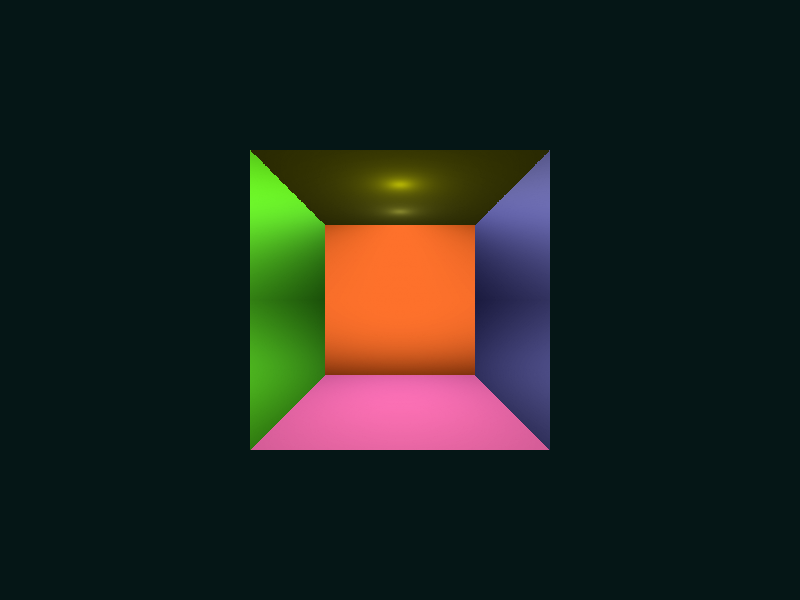
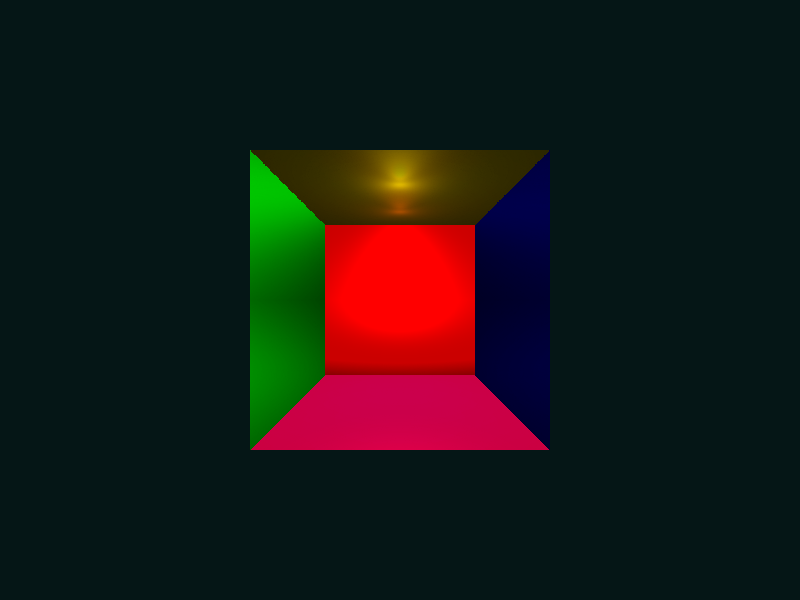
Refactor Luz para que tenga la intensidad como un vector en RGB [0 a 1]

Changed region(s): [[0.3125, 0.24, 0.6875, 0.75]]

diff --git a/headers/escena.h b/headers/escena.h
@@ -49,14 +49,12 @@ Escena_RR::Escena_RR()
 
     // La suma de las intensidades de las luces no debería superar 1.0f
     Luz luz1(
-        0.5f,                     // Intensidad de la luz
-        Vector(7, 4.5, 0),        // Posición de la luz
-        ColorRGB(255, 255, 255)); // Color de la luz
+        Vector(7, 4.5, 0),      // Posición de la luz
+        Vector(0.7, 0.2, 0.2)); // Intensidad de la luz en RGB
     luces.push_back(luz1);
     Luz luz2(
-        0.8f,
         Vector(3, 4.5, 0),
-        ColorRGB(255, 255, 0));
+        Vector(0.8, 0.8, 0.1));
     luces.push_back(luz2);
 
     // PAREDES
@@ -162,27 +160,23 @@ ObjetoPtr Escena_RR::calcularInterseccionMasCercana(Rayo_RR rayo, Vector *punto)
 void Escena_RR::calcularColorIluminacion(ObjetoPtr objeto, Rayo_RR rayo, Vector punto, Vector normal, Color_RR &color)
 {
 
-    ColorRGB *colorDifuso = nullptr;
+    ColorRGB colorDifuso = ColorRGB(0, 0, 0);
     ColorRGB colorBaseDifuso = objeto->getColorReflexionDifusa();
-    ColorRGB *colorEspecular = nullptr;
+    ColorRGB colorEspecular = ColorRGB(0, 0, 0);
     ColorRGB colorBaseEspecular = objeto->getColorReflexionEspecular();
     int brilloEspecular = objeto->getBrilloEspecular();
     for (const auto &luz : luces)
     {
         Vector direccionLuz = luz.getDirection(punto);
-        float intensidad = luz.getIntensidad();
-        ColorRGB colorLuz = luz.getColor();
+        Vector intensidad = luz.getIntensidad();
         float distanciaLuz = luz.getDistancia(punto);
         float factorAtenuacion = 1 / distanciaLuz * distanciaLuz;
 
         // Calcular iluminación difusa
-        float dotProduct = normal.dot(direccionLuz);
-        if (dotProduct > 0)
+        float dotProductDifuso = normal.dot(direccionLuz);
+        if (dotProductDifuso > 0)
         {
-            if (colorDifuso == nullptr)
-                colorDifuso = new ColorRGB((colorLuz / 2 + colorBaseDifuso / 2) * intensidad * dotProduct * factorAtenuacion);
-            else
-                *colorDifuso = *colorDifuso + (colorLuz / 2 + colorBaseDifuso / 2) * intensidad * dotProduct * factorAtenuacion;
+            colorDifuso = colorDifuso + colorBaseDifuso * intensidad * dotProductDifuso * factorAtenuacion;
         }
 
         // Calcular iluminación especular
@@ -192,20 +186,11 @@ void Escena_RR::calcularColorIluminacion(ObjetoPtr objeto, Rayo_RR rayo, Vector 
         if (dotProductEspecular > 0)
         {
             float intensidadEspecular = pow(dotProductEspecular, brilloEspecular);
-            if (colorEspecular == nullptr)
-                colorEspecular = new ColorRGB((colorLuz / 2 + colorBaseEspecular / 2) * intensidad * intensidadEspecular * factorAtenuacion);
-            else
-                *colorEspecular = *colorEspecular + (colorLuz / 2 + colorBaseEspecular / 2) * intensidad * intensidadEspecular * factorAtenuacion;
+            colorEspecular = colorEspecular + colorBaseEspecular * intensidad * intensidadEspecular * factorAtenuacion;
         }
     }
-    // Si no se calculó iluminación difusa, usar color base difuso
-    if (colorDifuso == nullptr)
-        colorDifuso = new ColorRGB(0, 0, 0);
-    // Si no se calculó iluminación especular, usar color base especular
-    if (colorEspecular == nullptr)
-        colorEspecular = new ColorRGB(0, 0, 0);
-    color.setComponenteDifusa(*colorDifuso, objeto->getCoeficienteReflexionDifusa());
-    color.setComponenteEspecular(*colorEspecular, objeto->getCoeficienteReflexionEspecular());
+    color.setComponenteDifusa(colorDifuso, objeto->getCoeficienteReflexionDifusa());
+    color.setComponenteEspecular(colorEspecular, objeto->getCoeficienteReflexionEspecular());
 }
 
 #endif // ESCENA_H

diff --git a/headers/luz.h b/headers/luz.h
@@ -8,31 +8,29 @@
 class Luz
 {
 private:
-    float intensidad;
     Vector posicion;
-    ColorRGB color;
+    Vector intensidad;
 
 public:
     Luz();
-    Luz(float intensidad, const Vector &posicion, const ColorRGB &color);
+    Luz(const Vector &posicion, const Vector &intensidad);
     Luz(const Luz &other);
-    float getIntensidad() const;
+    Vector getIntensidad() const;
     Vector getPosicion() const;
-    ColorRGB getColor() const;
     friend std::ostream &operator<<(std::ostream &os, const Luz &luz);
     Vector getDirection(Vector punto) const;
     float getDistancia(Vector punto) const;
 };
 
-Luz::Luz() : intensidad(0.0f), posicion(Vector()), color(ColorRGB()) {}
+Luz::Luz() : posicion(Vector()), intensidad(Vector(1, 1, 1)) {}
 
-Luz::Luz(float intensidad, const Vector &posicion, const ColorRGB &color)
-    : intensidad(intensidad), posicion(posicion), color(color) {}
+Luz::Luz(const Vector &posicion, const Vector &intensidad)
+    : posicion(posicion), intensidad(intensidad) {}
 
 Luz::Luz(const Luz &other)
-    : intensidad(other.intensidad), posicion(other.posicion), color(other.color) {}
+    : posicion(other.posicion), intensidad(other.intensidad) {}
 
-float Luz::getIntensidad() const
+Vector Luz::getIntensidad() const
 {
     return intensidad;
 }
@@ -42,16 +40,10 @@ Vector Luz::getPosicion() const
     return posicion;
 }
 
-ColorRGB Luz::getColor() const
-{
-    return color;
-}
-
 std::ostream &operator<<(std::ostream &os, const Luz &luz)
 {
     os << "Luz(intensidad: " << luz.intensidad
-       << ", posicion: " << luz.posicion
-       << ", color: " << luz.color << ")";
+       << ", posicion: " << luz.posicion << ")";
     return os;
 }
 

diff --git a/headers/color_rgb.h b/headers/color_rgb.h
@@ -1,3 +1,5 @@
+#include "vector.h"
+
 #ifndef COLOR_RGB_H
 #define COLOR_RGB_H
 
@@ -16,6 +18,7 @@ public:
     ColorRGB operator*(float factor) const;
     ColorRGB operator+(const ColorRGB &other) const;
     ColorRGB operator/(float factor) const;
+    ColorRGB operator*(const Vector &other) const;
 };
 
 ColorRGB::ColorRGB()
@@ -27,9 +30,9 @@ ColorRGB::ColorRGB()
 
 ColorRGB::ColorRGB(int r, int g, int b)
 {
-    this->r = r;
-    this->g = g;
-    this->b = b;
+    this->r = std::min(r, 255);
+    this->g = std::min(g, 255);
+    this->b = std::min(b, 255);
 }
 
 int ColorRGB::getR() const { return r; }
@@ -57,6 +60,11 @@ ColorRGB ColorRGB::operator+(const ColorRGB &other) const
 ColorRGB ColorRGB::operator/(float factor) const
 {
     return ColorRGB(static_cast<int>(r / factor), static_cast<int>(g / factor), static_cast<int>(b / factor));
+}
+
+ColorRGB ColorRGB::operator*(const Vector &other) const
+{
+    return ColorRGB(r * other.x(), g * other.y(), b * other.z());
 }
 
 #endif // COLOR_RGB_H

diff --git a/headers/globalVariables.h b/headers/globalVariables.h
@@ -7,7 +7,7 @@ int IMAGE_HEIGHT = 600;
 
 float DEFAULT_AMBIENT_COEFFICIENT = 0.1f;
 float DEFAULT_DIFFUSE_REFLECTION_COEFFICIENT = 0.7f;
-float DEFAULT_SPECULAR_REFLECTION_COEFFICIENT = 0.0f;
+float DEFAULT_SPECULAR_REFLECTION_COEFFICIENT = 0.3f;
 int DEFAULT_SPECULAR_BRIGHTNESS = 10;
 float DEFAULT_TRANSPARENCY_COEFFICIENT = 0.0f;
 float DEFAULT_REFRACTION_COEFFICIENT = 0.1f;
